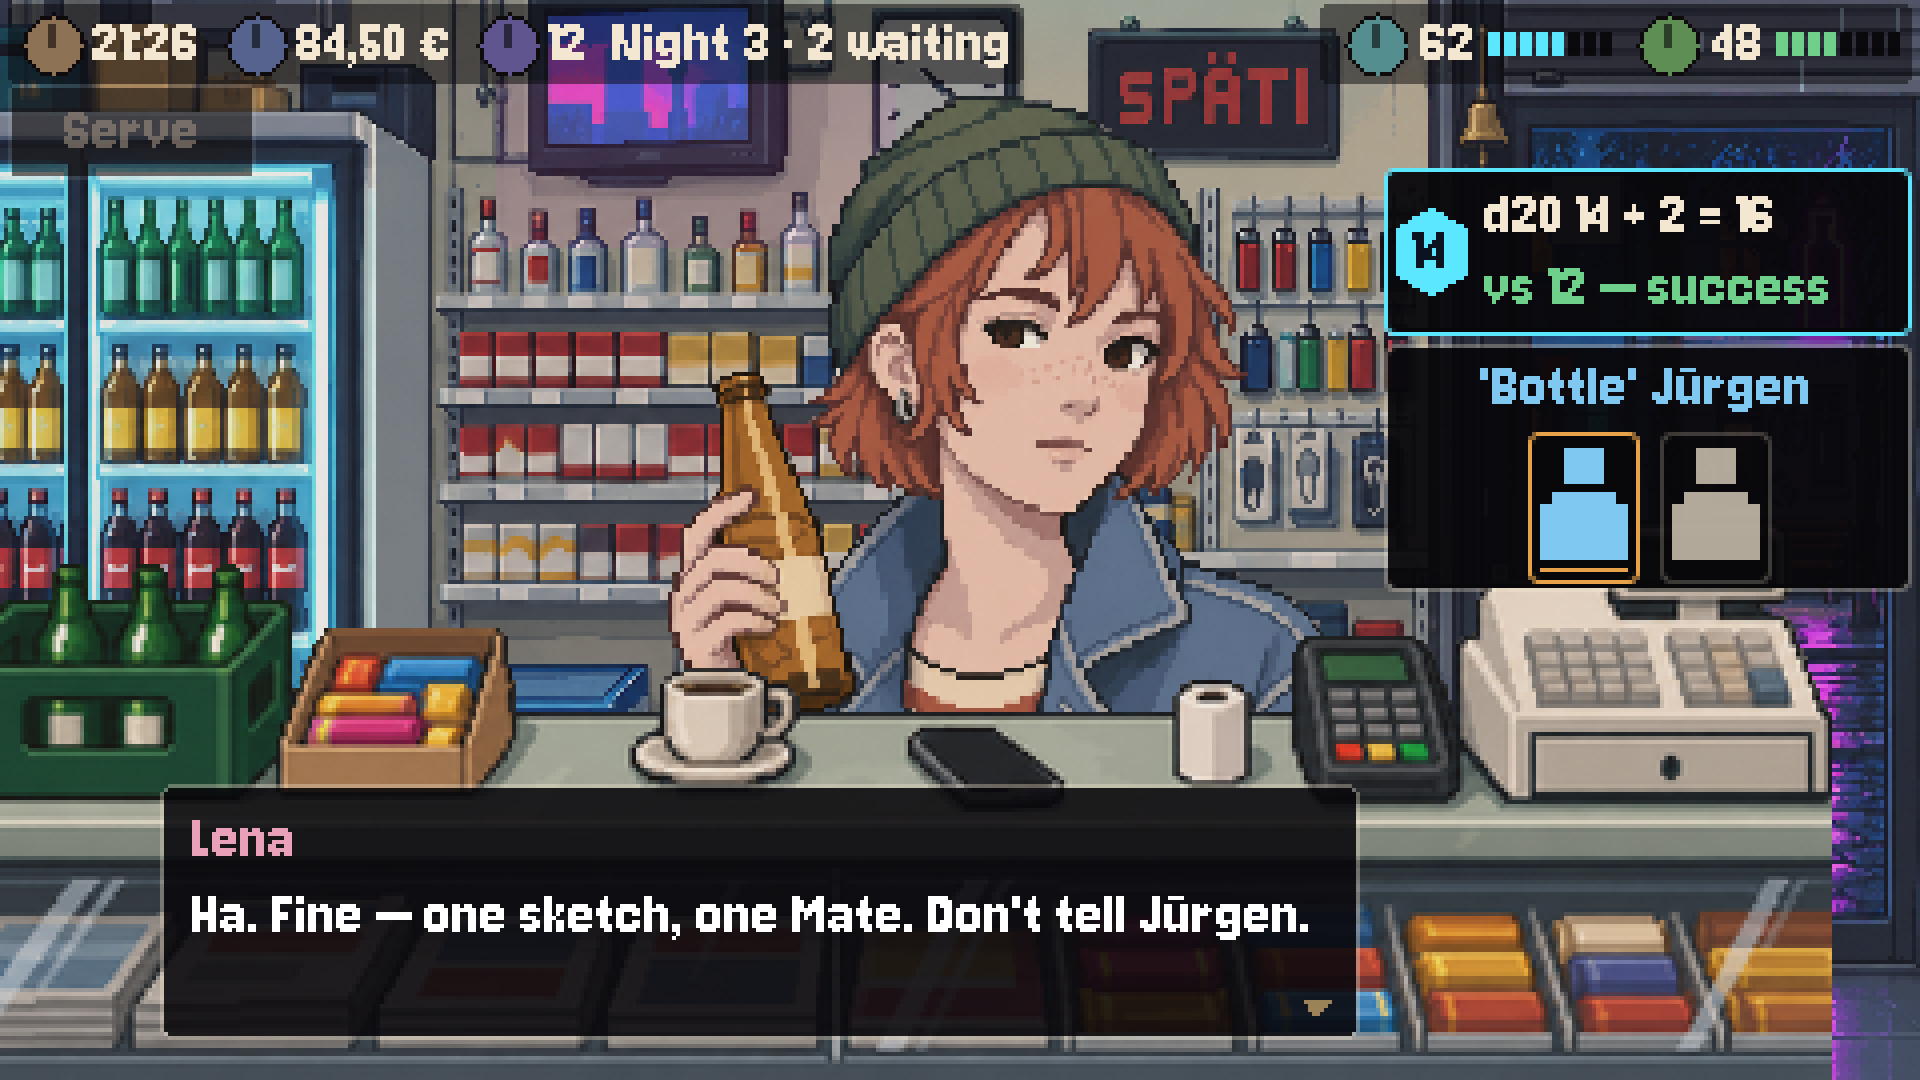
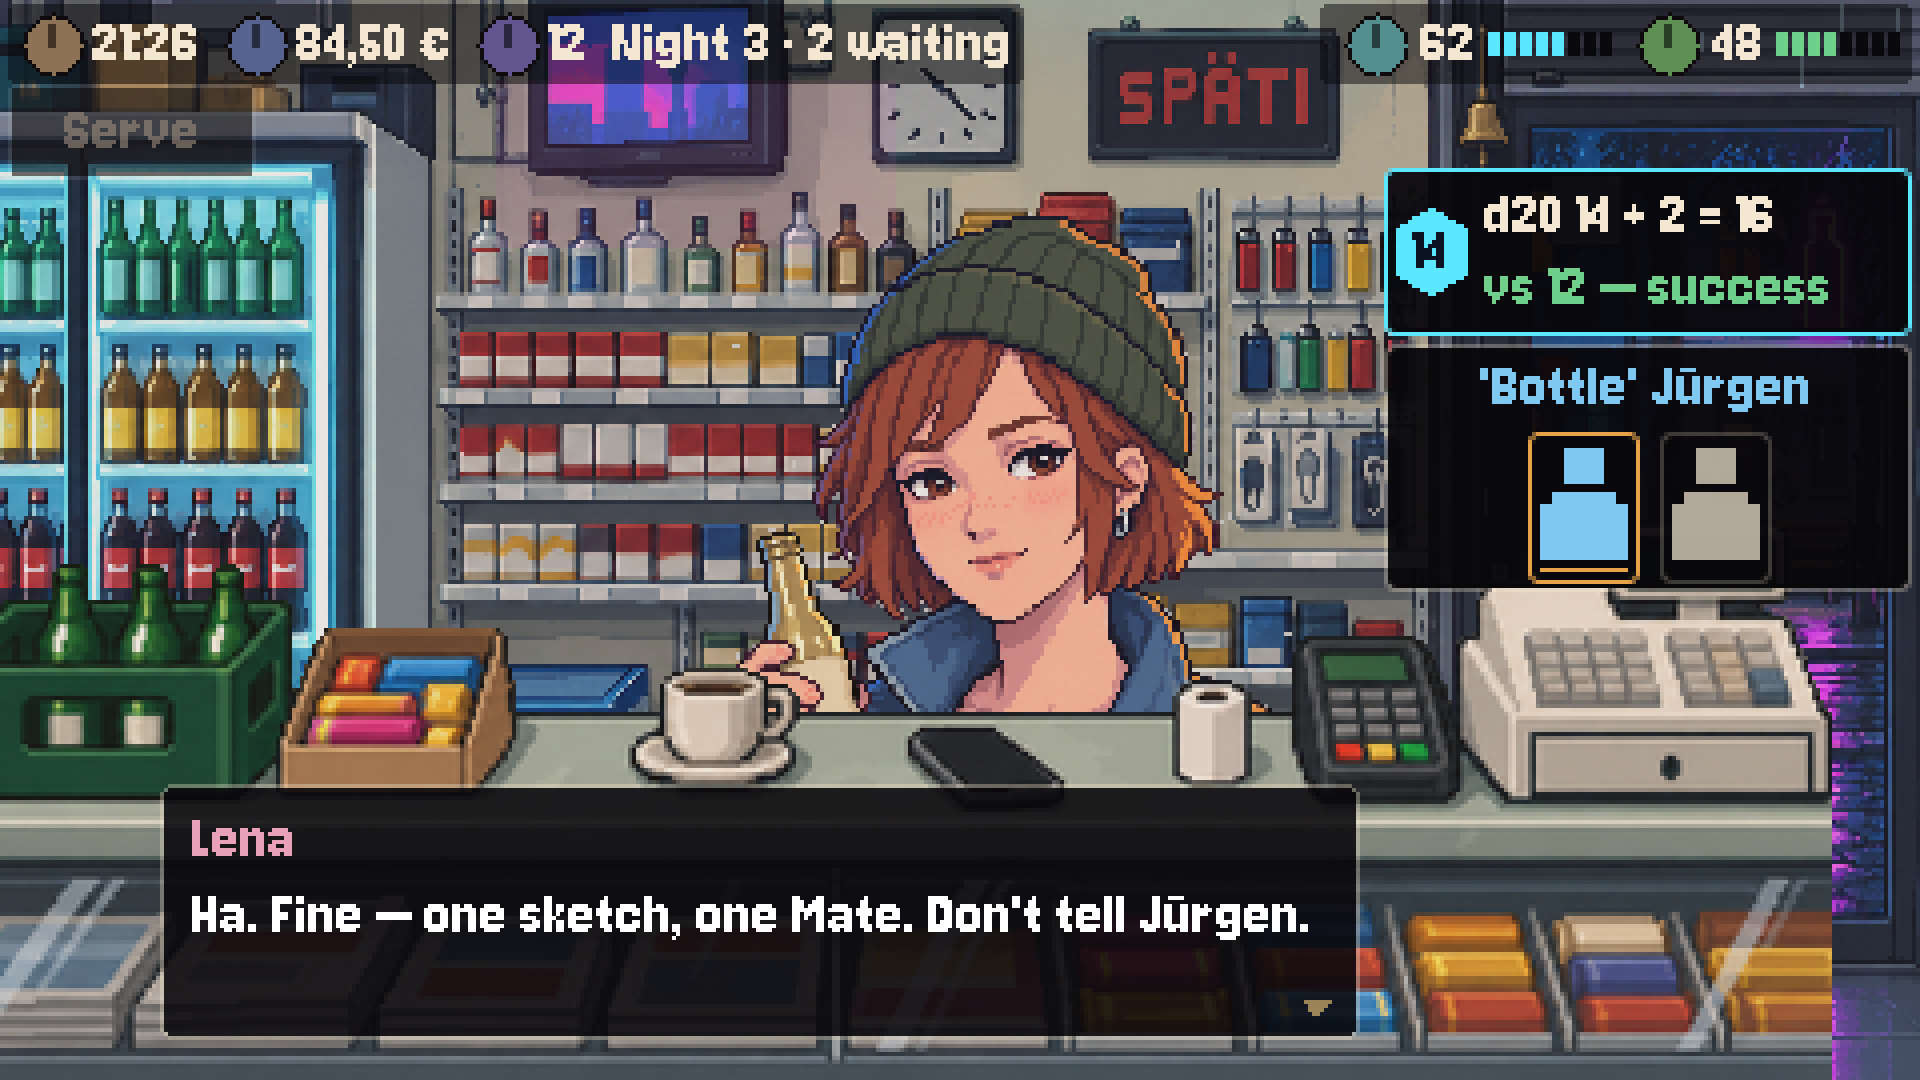
judge.mjs: 1500 s default for composed frames; gallery: expression switch proof; build log

Changed region(s): [[0.3438, 0.0917, 0.6875, 0.6722]]

diff --git a/docs/03-build-log.md b/docs/03-build-log.md
@@ -1131,3 +1131,4 @@ conversation is open — and the log rows now carry `queue` and `talking`.
 - **Promoted `scene/backdrop` = r5 (astra 74 nearest; composition 85, Berlin 91, pixel 64)** over the previous canonical (65). Nearest snap confirmed on full frames too (concept r3: 74 Lanczos → 77 nearest; counter r5: 65 → 72). Counter r6 (flat key, edge-to-edge) judging; quantise A/B on the backdrop judging; several concurrent astra judges returned no JSON — keep ≤ 4 Codex sessions at once.
 - Quantise A/B on the constructed backdrop r5: 48 colours + despeckle = **74, identical** to the plain nearest snap ("posterization, not authored clusters") — experiment closed; snap-only is final.
 - `shot.mjs` now ALWAYS re-imports before capturing: a promoted PNG without an import cache loaded as the placeholder (caught on the first captures after the backdrop promotion).
+- **Expressions live:** lena_warm/upset, juergen_warm, mehmet_warm generated on-model (neutral raw as identity ref); `talk_result` capture shows Lena switching to warm after a passed check. mehmet_wary rendering. Judges on composed 1080p frames time out at 600 s under 5 concurrent sessions → default 1500 s; run composed judges one at a time.

diff --git a/docs/gallery/README.md b/docs/gallery/README.md
@@ -8,3 +8,4 @@
 | play-queue.png / play-talk-choice.png | Real playthrough frames (scripted driver on the live engine) | — |
 | title-r4.png | Title key art (astra) | **86 pass** |
 | concept-r3-grid.png | Composed target concept (astra), real-Späti set, at game density | 77 |
+| night-talk_result.png | (updated) after the successful check Lena switches to her WARM expression — the per-node expression drives the Portrait | — |
